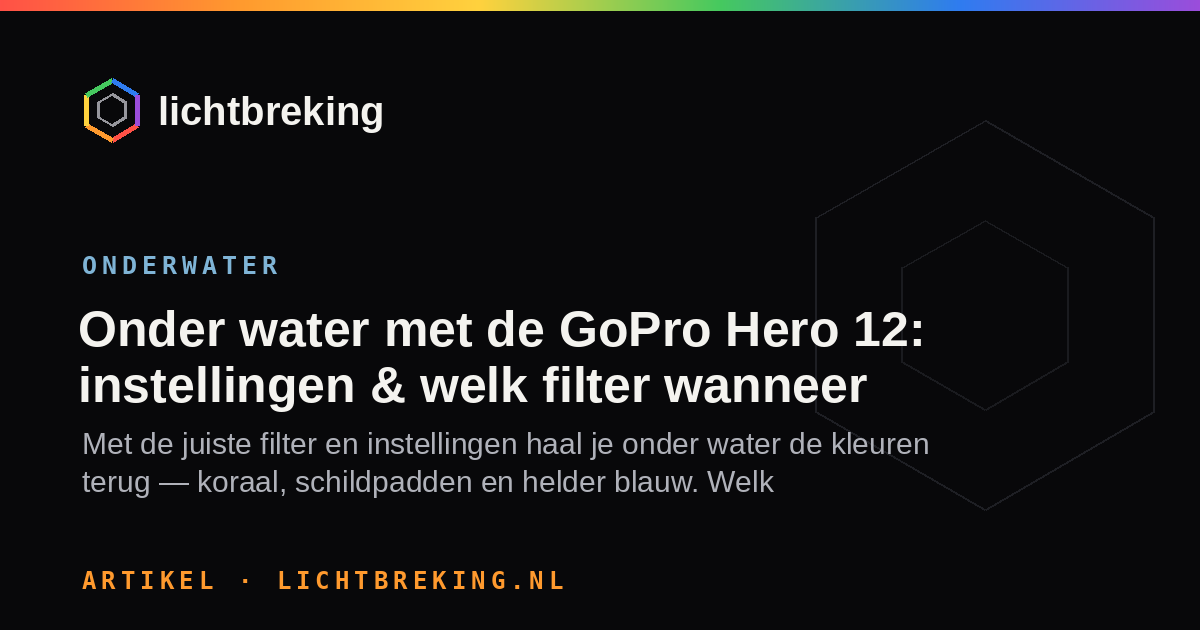
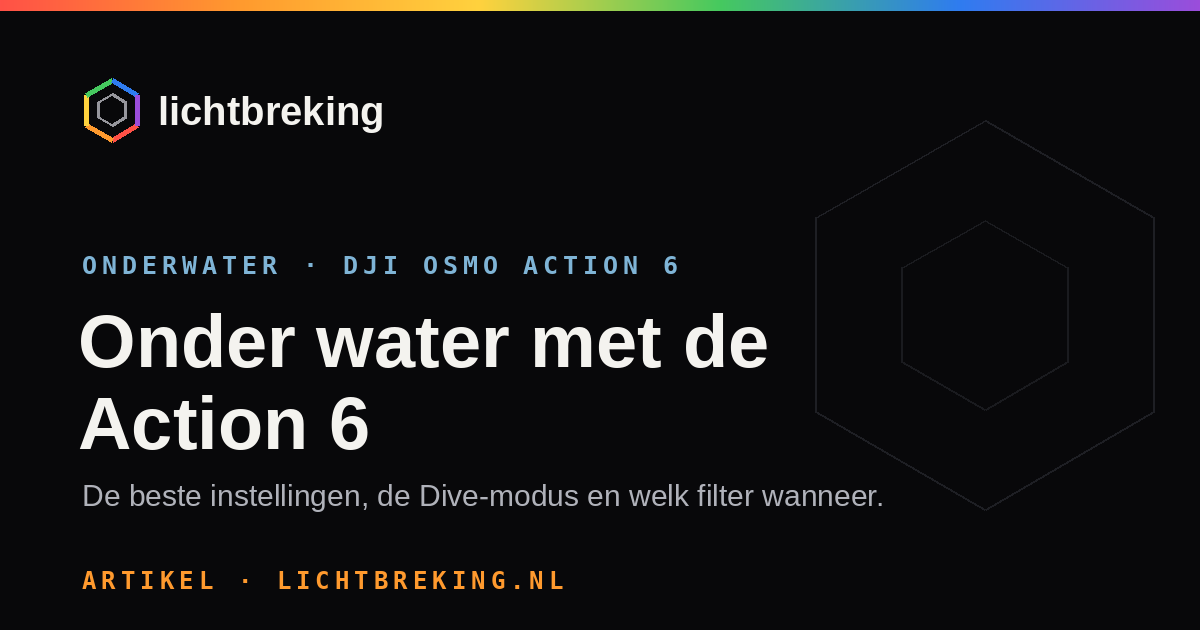
GoPro vervangen door DJI Osmo Action 6: onderwater/action-artikel volledig herschreven (Dive-modus, onderwater-WB, welk filter wanneer, per situatie + cheatsheet-lijst), FAQ + OG bijgewerkt; geverifieerd tegen DJI-specs

diff --git a/src/data/articles.js b/src/data/articles.js
@@ -288,73 +288,68 @@ const baseArticles = [
     slug: 'onderwater-action-instellingen',
     cat: 'Onderwater',
     ph: 'r',
-    title: 'Onder water met de GoPro Hero 12: instellingen & welk filter wanneer',
-    excerpt: 'Met de juiste filter en instellingen haal je onder water de kleuren terug — koraal, schildpadden en helder blauw. Welk MojoGear-filter je wanneer gebruikt, plus de beste GoPro Hero 12-instellingen voor duiken en snorkelen.',
+    title: 'Onder water met de DJI Osmo Action 6: instellingen & welk filter wanneer',
+    excerpt: 'Van het zwembad tot 60 meter diep: de beste instellingen voor de Osmo Action 6 boven én onder water. De Dive-modus en onderwater-witbalans, wanneer je een rood of magenta filter opzet, en per situatie — zwembad, zee, snorkelen, duiken — wat je kiest.',
     date: '2026-06-29',
     readMin: 8,
     body: `
-<p>Boven water draait alles om je ND-filter; onder water draait alles om kleur. Water "eet" kleur op — rood verdwijnt als eerste, al na een paar meter, daarna oranje en geel. Daardoor wordt alles blauwgroen. Met het juiste kleurfilter en de juiste instellingen op je GoPro Hero 12 haal je die kleuren terug en film je koraal, schildpadden en helder water zoals je het zelf ziet.</p>
+<p>Boven water draait alles om je ND-filter; onder water draait alles om kleur. Water "eet" kleur op — rood verdwijnt als eerste, al na een paar meter, daarna oranje en geel, waardoor alles blauwgroen wordt. De DJI Osmo Action 6 heeft daar slim gereedschap voor: een ingebouwde onderwater-witbalans, een Dive-modus met dieptemeter, en als eerste action-cam een variabel diafragma. Met de juiste instellingen en (op diepte) het juiste filter haal je koraal, schildpadden en helder water terug zoals je het zelf ziet.</p>
 
+<h2>De Action 6 onder water — kort</h2>
+<ul>
+<li><strong>Waterdicht tot 20 meter</strong> zonder behuizing (IP68); met de Dive Case tot 60 meter.</li>
+<li><strong>Dive-modus:</strong> een dieptemeter toont je diepte, en de opname start én stopt automatisch als je het water in- of uitgaat.</li>
+<li><strong>Onderwater-witbalans</strong> met eigen sensor: corrigeert het verdwenen rood en blijft stabiel als je van hoek verandert.</li>
+<li><strong>Grote 1/1.1-inch sensor + variabel diafragma f/2.0–f/4.0:</strong> meer licht op diepte, en je regelt fel licht met het diafragma in plaats van met een ND.</li>
+<li><strong>10-bit D-Log M:</strong> maximale kleurruimte voor wie achteraf graadt.</li>
+</ul>
+
+<h2>Je basisinstellingen (de cheatsheet)</h2>
+<ul>
+<li><strong>Resolutie:</strong> 4K — de grote sensor benutten, ruimte om bij te snijden of te stabiliseren.</li>
+<li><strong>Framerate:</strong> 25 fps voor de filmische look; 50/60 fps voor snelle actie en slow-motion.</li>
+<li><strong>Beeldhoek (FOV):</strong> Wide — vermindert vertekening en houdt de randen scherp, juist onder water.</li>
+<li><strong>Stabilisatie:</strong> RockSteady 3.0 aan. Zet horizon-nivellering (HorizonSteady/HorizonBalancing) onder water uit — die zoekt een horizon die er niet is.</li>
+<li><strong>Kleurprofiel:</strong> Normal voor direct-klaar beeld; 10-bit D-Log M als je gaat kleuren.</li>
+<li><strong>Witbalans:</strong> boven water handmatig vast (~5500 K). Onder water de onderwater-witbalans — of, mét kleurfilter, gewoon auto.</li>
+<li><strong>Diafragma:</strong> variabel f/2.0–f/4.0. Open (f/2.0) op diepte en in weinig licht; dicht (f/4.0) in fel licht in plaats van een ND-filter.</li>
+<li><strong>ISO:</strong> zo laag mogelijk (100) voor een schoon beeld; begrens de auto-ISO tot ~800–1600 op diepte.</li>
+</ul>
+
+<h2>De Dive-modus &amp; onderwater-witbalans</h2>
+<p>De ingebouwde Dive-modus is precies waarvoor je hem inschakelt: je ziet je diepte in beeld en hoeft niet aan opnemen te denken — het water zelf zet de camera aan en uit. De onderwater-witbalans doet de rest van het werk: die geeft het weggeslokte rood terug en houdt de kleur rustig.</p>
+<div class="callout"><span class="c-label">Vuistregel</span><p>Ondiep (tot ~5 m) redt de onderwater-witbalans het vaak zonder filter. Dieper heb je een kleurfilter nodig — dan doet het filter de grove correctie en zet je de witbalans op auto.</p></div>
+
+<h2>Welk filter wanneer?</h2>
+<p>Een kleurfilter geeft het verdwenen licht terug vóórdat het je sensor raakt. Voor de Action 6 zijn er twee soorten.</p>
 <div class="fbox">
-<div class="fbox__col fbox__col--yes"><span class="fbox__h">✓ Wél een filter</span><p>Daglicht, op 5–25 m diepte:</p><ul><li><strong>Blauw zeewater</strong> → rood filter</li><li><strong>Groen / zoet water</strong> → magenta filter</li></ul></div>
-<div class="fbox__col fbox__col--no"><span class="fbox__h">✕ Geen filter</span><ul><li>Heel ondiep / snorkelen (tot ~5 m)</li><li>Dieper dan ~25 m of weinig licht</li><li>Met een duiklamp of 's nachts</li></ul></div>
+<div class="fbox__col fbox__col--yes"><span class="fbox__h">✓ Wél een filter</span><ul><li><strong>Blauw / helder zeewater, 5–25 m</strong> → rood filter</li><li><strong>Groen of troebel water</strong> → magenta filter</li></ul></div>
+<div class="fbox__col fbox__col--no"><span class="fbox__h">✕ Geen filter</span><ul><li>Heel ondiep / snorkelen tot ~5 m — de onderwater-witbalans volstaat</li><li>Zwembad</li><li>Met een videolamp, of dieper dan ~25 m of 's nachts — een filter werkt niet zonder rood omgevingslicht</li></ul></div>
 </div>
-<p class="fbox-rule"><strong>Vuistregel:</strong> daglicht + 5–25 m + blauw/groen water → filter. Heel ondiep, heel diep, of een lamp erbij → geen filter. Mét filter: witbalans op Auto.</p>
+<p><strong>Belangrijk:</strong> mét een kleurfilter zet je de witbalans op <strong>auto</strong> (filter en camera corrigeren samen). Zónder filter, heel ondiep, gebruik je de <strong>onderwater-witbalans</strong>. Dive-filters klikken op de behuizing/lens — controleer dat je set voor de Osmo Action 6 is.</p>
 
-<div class="callout tip"><div class="c-label">Belangrijk</div><p>Dieptes en specs verschillen per behuizing en filterset. Bevestig de actuele dieptegrenzen altijd in de handleiding vóór je het water in gaat — en laat veiligheid (je duik, je adem, het zeeleven) altijd vóór de opname gaan. Spoel je behuizing na elke duik na in zoet water.</p></div>
+<h2>Per situatie</h2>
+<h3>Zwembad</h3>
+<p>Helder en veel licht. Geen filter; witbalans ~5500 K of de onderwater-modus. Film 4K/60 voor speelse slow-motion en houd RockSteady aan.</p>
+<h3>Zee &amp; snorkelen (0–5 m)</h3>
+<p>Onderwater-witbalans aan; zo ondiep meestal geen filter nodig. Maar in helder blauw water met zon zakt het rood al snel weg — vanaf ~3–5 m zet je een rood filter op. Kom dichtbij je onderwerp.</p>
+<h3>Duiken (5–25 m, blauw water)</h3>
+<p>Rood filter, witbalans op auto, ISO laag en het diafragma open (f/2.0) voor licht. Dive-modus aan. Beweeg rustig, houd de zon in je rug en kom zo dicht mogelijk — elke meter water tussen jou en je onderwerp slikt kleur en contrast.</p>
+<h3>Groen of troebel water</h3>
+<p>Ruil het rode filter voor een magenta filter; dat corrigeert de groene waas.</p>
+<h3>Dieper dan ~25 m, grotten of 's nachts</h3>
+<p>Een filter werkt hier niet meer — er is te weinig rood licht om terug te geven. Gebruik een videolamp en zet je witbalans op de kleur van die lamp; geen filter.</p>
 
-<h2>Welk filter wanneer? (MojoGear-set)</h2>
-<p>De MojoGear-filterset heeft drie kleuren, elk voor een ander soort water en een andere diepte. Het filter herstelt optisch het verdwenen rood, zodat je beeld er weer natuurlijk uitziet. De vuistregel:</p>
+<h2>Vijf onderwater-vuistregels</h2>
 <ul>
-<li><strong>Roze filter — ondiep / snorkelen (0,5–5 m).</strong> Voor de bovenste laag water, ongeacht of het zee of zoet water is. Ideaal bij snorkelen en zwemmen vlak onder de oppervlakte.</li>
-<li><strong>Rood filter — blauw zeewater (5–25 m).</strong> Het klassieke duikfilter voor heldere tropische zee en oceaan. Dit gebruik je op Curaçao.</li>
-<li><strong>Magenta (paars) filter — groen / zoet water (5–25 m).</strong> Voor meren, plassen en groenig water, waar een rood filter te veel zou doen.</li>
+<li><strong>Kom dichtbij.</strong> Water is geen lucht: contrast en kleur verdwijnen per meter tussen lens en onderwerp.</li>
+<li><strong>Zet alles handmatig vast</strong> — laat de camera niet zoeken naar belichting en kleur.</li>
+<li><strong>Houd de zon in je rug</strong> voor de rijkste kleuren.</li>
+<li><strong>Beweeg traag en vloeiend</strong>; snelle bewegingen wervelen zand op en ogen schokkerig.</li>
+<li><strong>Naspoelen &amp; O-ring checken:</strong> spoel camera en behuizing met zoet water en controleer de afdichting vóór elke duik.</li>
 </ul>
 
-<div class="callout tip"><div class="c-label">Vuistregel</div><p>Ondieper dan ~5 m? Vaak heb je geen filter nodig — er is dan nog genoeg rood licht. Dieper dan ~5 m: kies het filter dat bij het water past (rood = blauw, magenta = groen). De MojoGear-filters passen <strong>alleen op de MojoGear-behuizing</strong>, niet op de originele GoPro-case.</p></div>
-
-<h2>Wanneer juist géén filter</h2>
-<ul>
-<li><strong>Heel ondiep (tot ~5 m).</strong> Genoeg daglicht en rood aanwezig; een filter maakt het beeld dan alleen donkerder en roder dan nodig.</li>
-<li><strong>Heel diep of bij weinig licht (richtlijn vanaf ~25 m).</strong> Er is dan te weinig rood licht over om te herstellen; een filter helpt niet meer. Gebruik dan een duiklamp.</li>
-<li><strong>Met een duiklamp of bij nachtduiken.</strong> De lamp geeft vol-spectrum wit licht; mét een kleurfilter krijg je dan een onnatuurlijke rode of magenta zweem. Lamp aan = filter eraf. Houd er rekening mee dat het bereik van een lamp meestal maar 1 à 2 meter is — fijn voor close-ups van koraal en macro.</li>
-</ul>
-
-<h2>Witbalans: mét filter op Auto, zonder filter handmatig</h2>
-<p>Dit is de instelling waar de meeste mensen het mis hebben. <strong>Gebruik je een kleurfilter (zoals het rode MojoGear-filter), zet de witbalans dan op Auto.</strong> Het filter doet de kleurcorrectie optisch, dus de camera mag de rest zelf afmaken — dat geeft het mooiste resultaat. Film je <strong>zónder</strong> filter, zet de witbalans dan juist handmatig vast en hoger naarmate je dieper gaat (niet op auto, want dan blijft de kleur tijdens een clip verspringen). Kort: filter erop → witbalans Auto; geen filter → witbalans handmatig.</p>
-
-<h2>GoPro Hero 12 — instellingen voor duiken (tot 25 m)</h2>
-<p>Dit zijn de aanbevolen instellingen voor wijdhoek-duikvideo, op basis van de Backscatter-duikgids. Zet de camera eerst op <strong>Bediening: Pro</strong> en <strong>Videomodus: Hoogste kwaliteit</strong>, en sla het op als vaste preset.</p>
-<ul>
-<li><strong>Beeldverhouding 16:9 · Resolutie 4K</strong> (of 5.3K als je computer het aankan).</li>
-<li><strong>Framerate</strong> — in Nederland staat je camera op <strong>50 Hz (PAL)</strong>, dus film op <strong>50 fps</strong> algemeen, en <strong>25 fps</strong> bij weinig licht of dieper (tragere sluiter = helderder en minder ruis). 50 fps geeft soepel beeld én ruimte voor lichte slow-motion.</li>
-<li><strong>Lens: Wide</strong> (niet breder — SuperView vervormt te veel) · <strong>HyperSmooth: Boost</strong> · Zoom 1.0×.</li>
-<li><strong>ProTune aan:</strong> Sluiter Auto · <strong>EV-compensatie −0,5</strong> (voorkomt uitgebeten zonlicht aan het oppervlak) · <strong>Witbalans Auto</strong> (mét filter) · ISO min 100, max 6400 · Scherpte Medium · Kleur Natural · BitRate Hoog. Zet <strong>10-bit</strong> aan als je de beelden later gaat kleuren.</li>
-<li><strong>GPS uit</strong> — dat werkt niet op diepte en kost alleen accu.</li>
-<li><strong>Geen ND-filter.</strong> Boven water houd je met ND je sluiter traag in de felle zon; onder water is het licht al gedempt en bewegen je onderwerpen — laat de sluiter z'n werk doen.</li>
-</ul>
-<p>Tot ongeveer 24–25 meter werkt het rode filter prima in blauw water. Wordt het dieper, donkerder of troebel, dan is er te weinig rood licht over om te herstellen: haal het filter eraf en gebruik een duiklamp voor de kleur.</p>
-
-<h2>De MojoGear-behuizing</h2>
-<p>De waterdichte MojoGear-behuizing beschermt je Hero 12 tot zo'n 50 meter diepte. Een paar dingen om op te letten:</p>
-<ul>
-<li><strong>Anti-condens-inserts</strong> in de behuizing voorkomen beslagen beelden bij temperatuurverschil tussen lucht en water.</li>
-<li><strong>Controleer de O-ring</strong> (afdichtrubber) op haartjes en zand vóór je sluit — dat is je waterdichtheid.</li>
-<li><strong>Spoel na</strong> in zoet water en laat drogen; zout en zand zijn de grootste vijanden.</li>
-<li>De filters klikken op deze behuizing; wissel ze aan land, met droge handen.</li>
-</ul>
-
-<h2>Praktische tips</h2>
-<ul>
-<li><strong>Kom dichtbij.</strong> Water vermindert kleur, contrast en scherpte razendsnel. Hoe minder water tussen jou en je onderwerp, hoe beter het beeld.</li>
-<li><strong>Zon in je rug.</strong> Dan valt het licht op je onderwerp en komen de kleuren het mooist terug. Blijf ondiep voor het meeste rood.</li>
-<li><strong>Rustige bewegingen.</strong> Langzaam zweven en pannen oogt filmischer — en je verstoort het zeeleven minder.</li>
-<li><strong>Respecteer de natuur.</strong> Raak koraal en dieren niet aan en houd afstand. Het mooiste beeld is er één waarbij niets verstoord wordt.</li>
-</ul>
-
-<div class="callout tip"><div class="c-label">Onthoud dit</div><p>Filter bij het water (rood = blauw, magenta = groen, roze = ondiep), filter eraf bij een lamp of heel ondiep, witbalans op Auto zolang je het filter gebruikt, en kom dichtbij. Dat zijn de dingen die je onderwaterbeelden het meest verbeteren.</p></div>
-
-<p>Op zoek naar een plek om dit te oefenen? Bij <a href="/curacao/">Playa Grandi op Curaçao</a> zwem je zo tussen de zeeschildpadden in helder blauw water — perfect voor je rode filter. En wil je je film- en kleurwerk naar een hoger niveau tillen, kijk dan bij <a href="/cursussen/">de gratis cursussen</a>.</p>
+<p>Film je in D-Log M? Leer het graden in <a href="/cursus/kleurfilmer/">De Kleurfilmer</a>. Boven water met je drone of Pocket 4? Zie de <a href="/gereedschap/">Pro-cheatsheet</a> en de <a href="/gids/pocket-4/">Pocket 4-gids</a>.</p>
 `
   },
   {
